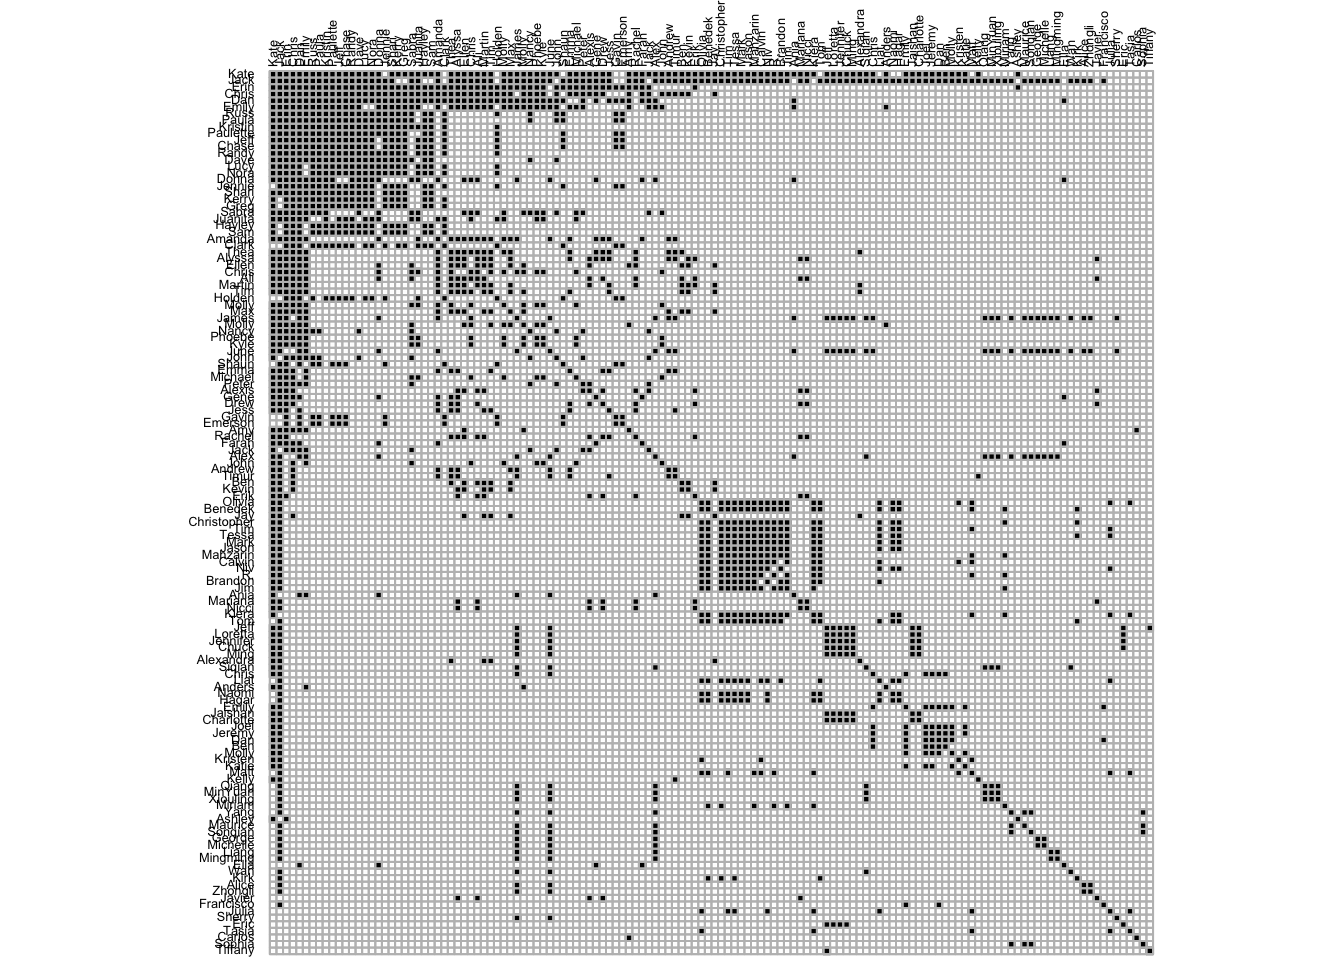
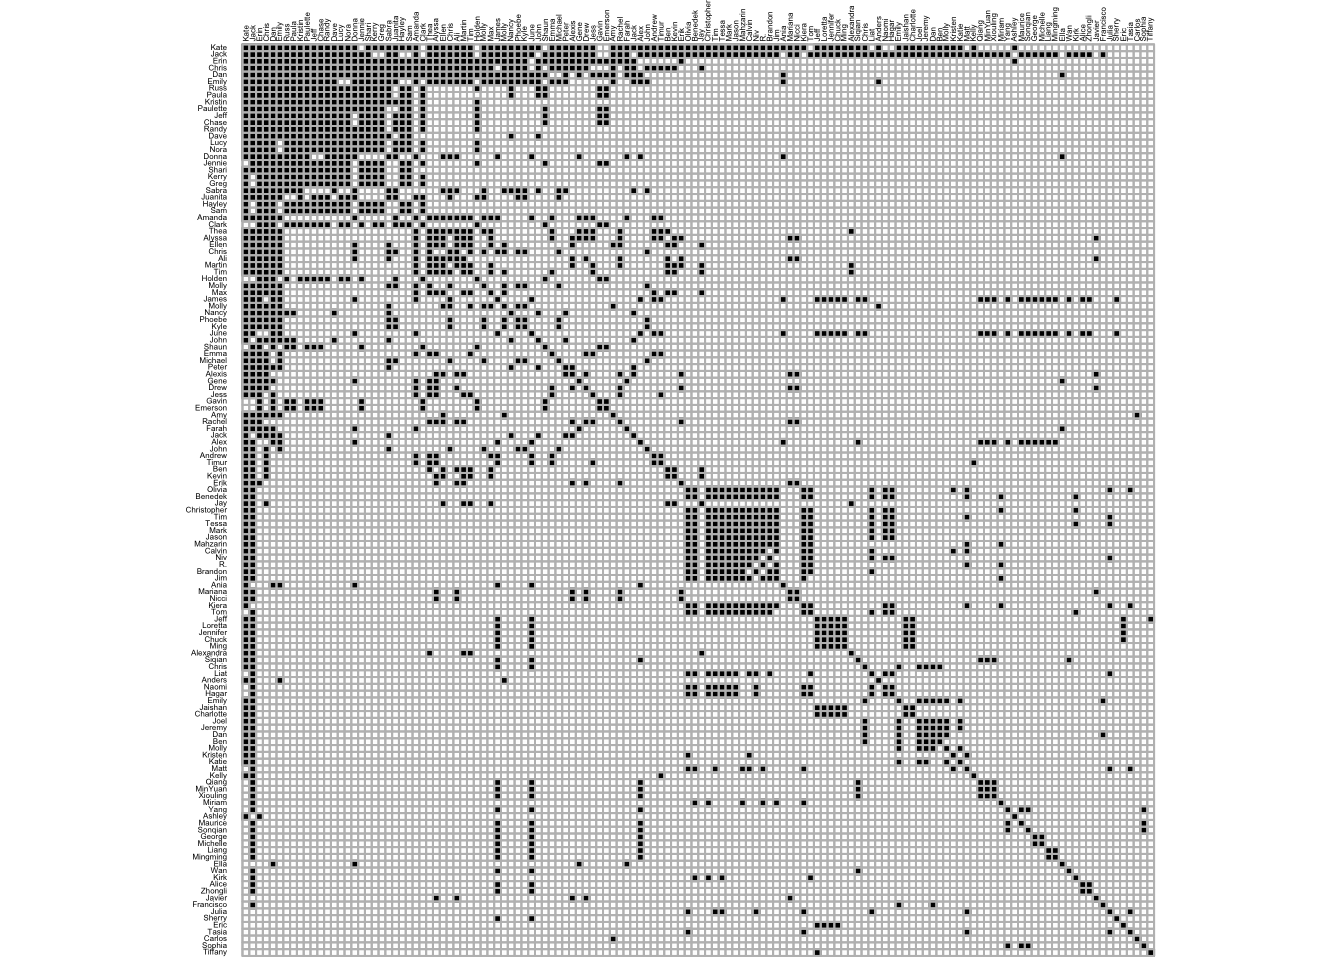
figure caption

diff --git a/content/post/2019-05-18-wedding/2019-05-18-a-wedding-social-network.html b/content/post/2019-05-18-wedding/2019-05-18-a-wedding-social-network.html
@@ -13,5 +13,10 @@ image:
 
 
 <p>Wedding season will soon be in full swing. During cocktail hour or over the salad course at dinner, a common question that guests ask one another is how they know the happy couple. The answers that come up are localized to <em>particular individuals</em>, which means it’s difficult to get a big picture understanding of how <em>entire groups of people</em> converge to celebrate the start of a marriage.</p>
-<p>Thinking about this shortly before our own wedding last April, my then-fiancee (now wife :heart_eyes:) and I conducted a social network analysis of the guests who would celebrate with us on our special day. So we gathered a list of our 134 guests and placed their names down column A and across row 1 of an Excel spreadsheet, creating a 134 x 134 adjacency matrix. Each entry in the matrix represents if two guests had previously met in any capacity (0 = no, 1 = yes). It took us a couple hours spread over a few days to fill in the matrix, but we ended up with the following. Guests’ names are row and column labels. White squares mean the two guests hadn’t met and black squares mean they had met. Every square along the diagonal is black since guests have of course met themselves.</p>
-<p><img src="/post/2019-05-18-wedding/2019-05-18-a-wedding-social-network_files/figure-html/unnamed-chunk-2-1.png" width="672" /></p>
+<p>Thinking about this shortly before our own wedding last April, my then-fiancee (now wife :smiley:) and I conducted a social network analysis of the guests who would celebrate with us on our special day. So we gathered a list of our 134 guests and placed their names down column A and across row 1 of an Excel spreadsheet, creating a 134 x 134 adjacency matrix. Each entry in the matrix represents if two guests had previously met in any capacity (0 = no, 1 = yes). It took us a couple hours spread over a few days to fill in the matrix, but we ended up with the following. Guests’ names are row and column labels. White squares mean the two guests hadn’t met and black squares mean they had met. Every square along the diagonal is black since guests have of course met themselves.</p>
+<div class="figure"><span id="fig:unnamed-chunk-2"></span>
+<img src="/post/2019-05-18-wedding/2019-05-18-a-wedding-social-network_files/figure-html/unnamed-chunk-2-1.png" alt="Adjaceny matrix, organized by each guest's loading onto the first principal component" width="672" />
+<p class="caption">
+Figure 1: Adjaceny matrix, organized by each guest’s loading onto the first principal component
+</p>
+</div>
